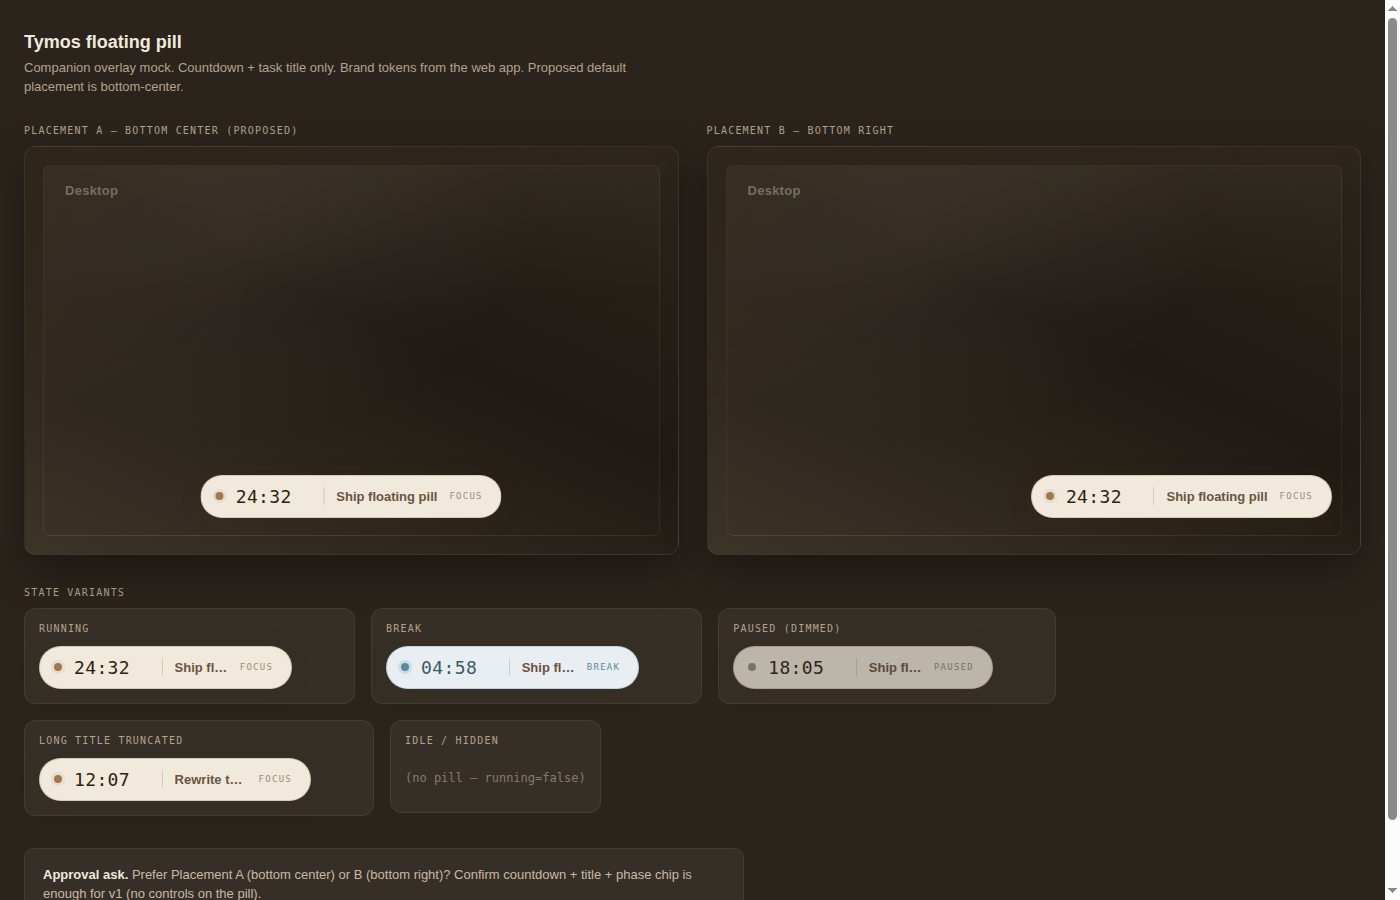
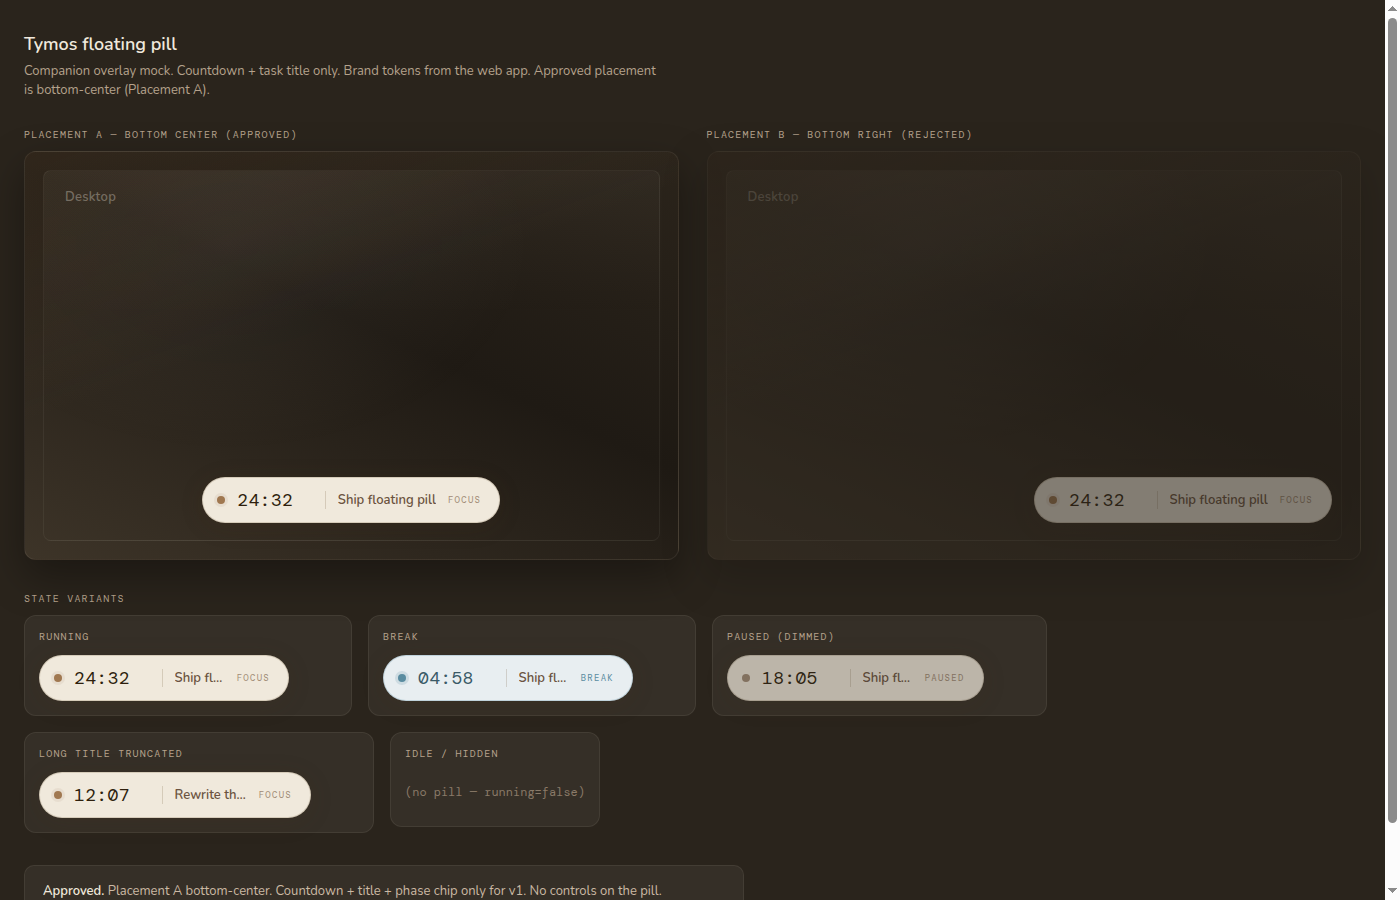
Lock floating pill placement to bottom-center.
Records Placement A as the approved default and dims Placement B in the mock.

diff --git a/pill/mock/index.html b/pill/mock/index.html
@@ -243,12 +243,12 @@ h1 {
   <h1>Tymos floating pill</h1>
   <p class="lede">
     Companion overlay mock. Countdown + task title only. Brand tokens from the web app.
-    Proposed default placement is bottom-center.
+    Approved placement is bottom-center (Placement A).
   </p>
 
   <div class="grid">
     <div>
-      <div class="scene-label">Placement A — bottom center (proposed)</div>
+      <div class="scene-label">Placement A — bottom center (approved)</div>
       <div class="desktop" id="scene-center">
         <div class="wallpaper-mark">Desktop</div>
         <div class="pill" aria-label="Focus session pill">
@@ -262,8 +262,8 @@ h1 {
     </div>
 
     <div>
-      <div class="scene-label">Placement B — bottom right</div>
-      <div class="desktop" id="scene-right">
+      <div class="scene-label">Placement B — bottom right (rejected)</div>
+      <div class="desktop" id="scene-right" style="opacity: 0.45;">
         <div class="wallpaper-mark">Desktop</div>
         <div class="pill bottom-right" aria-label="Focus session pill">
           <span class="dot" aria-hidden="true"></span>
@@ -331,9 +331,8 @@ h1 {
   </div>
 
   <div class="notes">
-    <strong>Approval ask.</strong>
-    Prefer Placement A (bottom center) or B (bottom right)?
-    Confirm countdown + title + phase chip is enough for v1 (no controls on the pill).
+    <strong>Approved.</strong>
+    Placement A bottom-center. Countdown + title + phase chip only for v1. No controls on the pill.
   </div>
 </body>
 </html>

diff --git a/pill/winui/TymosPill/MainWindow.xaml.cs b/pill/winui/TymosPill/MainWindow.xaml.cs
@@ -76,6 +76,7 @@ public sealed partial class MainWindow : Window
         var work = display.WorkArea;
         const int width = 440;
         const int height = 88;
+        // Placement A (approved): bottom-center of the primary work area.
         var x = work.X + (work.Width - width) / 2;
         var y = work.Y + work.Height - height - 28;
         _appWindow.MoveAndResize(new RectInt32(x, y, width, height));

diff --git a/.cursor/skills/tymos/SKILL.md b/.cursor/skills/tymos/SKILL.md
@@ -43,7 +43,7 @@ The companion pill reads live session state from `http://127.0.0.1:17865/v1/stat
 curl -s http://127.0.0.1:17865/v1/state
 ```
 
-Expect `running: true`, `remainingSecs` counting down, and `taskTitle` matching the focused task (or empty if none focused). On Windows with the WinUI shell running, the always-on-top pill should be visible bottom-center.
+Expect `running: true`, `remainingSecs` counting down, and `taskTitle` matching the focused task (or empty if none focused). On Windows with the WinUI shell running, the always-on-top pill should be visible at the approved bottom-center placement.
 
 If POST fails silently, the web timer still runs. Fix the listener, then Start or wait one tick.
 

diff --git a/pill/README.md b/pill/README.md
@@ -39,7 +39,7 @@ Demo chrome with sample state (no bridge):
 dotnet run -- --demo
 ```
 
-Default placement is bottom-center, always on top. Drag the pill to move it. When `running` is false the pill hides.
+Approved placement is bottom-center (Placement A), always on top. Drag the pill to move it. When `running` is false the pill hides.
 
 ## Run bridge on Linux / CI
 
